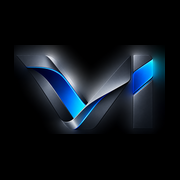
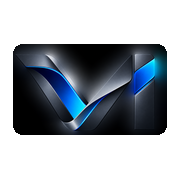
Add files via upload

diff --git a/app.js b/app.js
@@ -469,7 +469,7 @@ async function pdf(ids,o){
   const lg=(max)=>{if(!logo)return null;const h=Math.min(max,max*1.9/logo.r),w=h*logo.r;return{w,h}};
   let cur,y,label='';
   const np=l=>{label=l||label;cur=[`<rect width="210" height="19" fill="${ink}"/><rect y="19" width="210" height="1.6" fill="${acc}"/>`,`<text x="14" y="11.8" font-size="3.3" font-weight="bold" letter-spacing=".6" fill="#fff">${esc(label)}</text>`];
-    const s=lg(9);if(s)cur.push(`<rect x="${196-s.w-4}" y="4.2" width="${s.w+8}" height="${s.h+2}" rx="1.5" fill="#000"/>`,svgImg(logo.u,196-s.w,5.2,s.w,s.h));pages.push(cur);y=32};
+    const s=lg(9);if(s)cur.push(`<rect x="${196-s.w-4}" y="4.2" width="${s.w+8}" height="${s.h+2}" rx="1.5" fill="#fff"/>`,svgImg(logo.u,196-s.w,5.2,s.w,s.h));pages.push(cur);y=32};
   const room=h=>{if(y+h>276)np(label)};
   const para=(t,x,w,fs,fill,bold,lh)=>{for(const l of wrapLines(t,w,fs,bold)){room(lh);cur.push(`<text x="${x}" y="${y}" font-size="${fs}" fill="${fill}"${bold?' font-weight="bold"':''}>${esc(l)}</text>`);y+=lh}};
   const callout=(lab,text,res)=>{const lines=wrapLines(text,160,3.7).slice(0,34),h=11+lines.length*5.3;room(h+4);
@@ -481,7 +481,7 @@ async function pdf(ids,o){
   const cov=[`<rect width="210" height="297" fill="${bg}"/>`];
   if(hero)cov.push(svgClip(hero.u,0,0,210,172,0,'hc'));else cov.push(`<rect width="210" height="172" fill="${acc}" fill-opacity=".3"/><circle cx="170" cy="60" r="70" fill="${acc}" fill-opacity=".25"/><circle cx="40" cy="140" r="50" fill="#fff" fill-opacity=".08"/>`);
   cov.push(`<defs><linearGradient id="hg" x1="0" y1="0" x2="0" y2="1"><stop offset=".4" stop-color="#0e1a20" stop-opacity="0"/><stop offset="1" stop-color="#0e1a20" stop-opacity=".8"/></linearGradient></defs><rect width="210" height="172" fill="url(#hg)"/>`,`<polygon points="0,158 210,134 210,147 0,172" fill="${acc}"/><polygon points="0,172 210,147 210,153 0,178" fill="${acc}" fill-opacity=".4"/>`);
-  const cl=lg(14);if(cl)cov.push(`<rect x="14" y="14" width="${cl.w+10}" height="${cl.h+9}" rx="3" fill="#000"/>`,svgImg(logo.u,19,18.5,cl.w,cl.h));
+  const cl=lg(14);if(cl)cov.push(`<rect x="14" y="14" width="${cl.w+10}" height="${cl.h+9}" rx="3" fill="#fff"/>`,svgImg(logo.u,19,18.5,cl.w,cl.h));
   const t1=wrapLines(`${S.company} application portfolio`,172,13,true);
   cov.push(`<text x="20" y="197" font-size="3.4" font-weight="bold" letter-spacing=".9" fill="${sc}">CUSTOMER PROPOSAL</text>`);
   t1.forEach((t,i)=>cov.push(`<text x="20" y="${209+i*14}" font-size="13" font-weight="bold" fill="${tc}">${esc(t)}</text>`));
@@ -515,7 +515,7 @@ async function pdf(ids,o){
     if(S.secs.includes('Result')&&a.proof)callout('The result',a.proof,true)}
   /* ---- closing page */
   const end=[`<rect width="210" height="297" fill="${ink}"/><polygon points="0,200 210,170 210,182 0,212" fill="${acc}"/><circle cx="175" cy="48" r="60" fill="${acc}" fill-opacity=".12"/>`];
-  const el=lg(16);if(el)end.push(`<rect x="20" y="24" width="${el.w+10}" height="${el.h+10}" rx="3" fill="#000"/>`,svgImg(logo.u,25,29,el.w,el.h));
+  const el=lg(16);if(el)end.push(`<rect x="20" y="24" width="${el.w+10}" height="${el.h+10}" rx="3" fill="#fff"/>`,svgImg(logo.u,25,29,el.w,el.h));
   end.push(`<text x="20" y="120" font-size="14" font-weight="bold" fill="#fff">Let’s talk about</text><text x="20" y="136" font-size="14" font-weight="bold" fill="${acc}">your application.</text>`);
   wrapLines(`Every application above started with a problem like yours. Tell us about your bearings, shafts, loads and conditions and we will recommend the right material and design.`,150,4.2).forEach((t,i)=>end.push(`<text x="20" y="${152+i*6}" font-size="4.2" fill="#fff" fill-opacity=".85">${esc(t)}</text>`));
   end.push(`<text x="20" y="236" font-size="6" font-weight="bold" fill="#fff">${esc(S.company)}</text>`);if(S.footer)wrapLines(S.footer,170,3.8).slice(0,3).forEach((t,i)=>end.push(`<text x="20" y="${244+i*5.4}" font-size="3.8" fill="#fff" fill-opacity=".8">${esc(t)}</text>`));

diff --git a/index.html b/index.html
@@ -3,11 +3,11 @@
 <head>
 <meta charset="utf-8">
 <meta name="viewport" content="width=device-width,initial-scale=1,viewport-fit=cover">
-<meta name="theme-color" content="#000000">
+<meta name="theme-color" content="#ffffff">
 <meta name="mobile-web-app-capable" content="yes">
 <meta name="apple-mobile-web-app-capable" content="yes">
 <meta name="apple-mobile-web-app-title" content="Vesco Intelligence">
-<meta name="apple-mobile-web-app-status-bar-style" content="black">
+<meta name="apple-mobile-web-app-status-bar-style" content="default">
 <link rel="manifest" href="manifest.json">
 <link rel="apple-touch-icon" href="apple-touch-icon.png">
 <link rel="icon" type="image/png" sizes="32x32" href="favicon-32.png">
@@ -22,7 +22,7 @@
 <link rel="stylesheet" href="style.css">
 <script src="config.js" defer></script>
 <script type="module" src="app.js"></script>
-<style>#spl{position:fixed;inset:0;z-index:99999;display:flex;flex-direction:column;align-items:center;justify-content:center;gap:26px;background:#000;transition:opacity .45s}#spl.off{opacity:0;pointer-events:none}#spl img{width:min(72vw,340px);height:auto;animation:splp 1.8s ease-in-out infinite}#spl i{width:120px;height:3px;border-radius:2px;background:rgba(30,120,230,.25);overflow:hidden;position:relative}#spl i:after{content:"";position:absolute;inset:0;width:40%;background:#1e78e6;animation:spls 1.2s ease-in-out infinite}@keyframes splp{50%{transform:scale(1.04)}}@keyframes spls{0%{transform:translateX(-100%)}100%{transform:translateX(250%)}}@media(prefers-reduced-motion:reduce){#spl img,#spl i:after{animation:none}}</style>
+<style>#spl{position:fixed;inset:0;z-index:99999;display:flex;flex-direction:column;align-items:center;justify-content:center;gap:26px;background:#fff;transition:opacity .45s}#spl.off{opacity:0;pointer-events:none}#spl img{width:min(72vw,340px);height:auto;animation:splp 1.8s ease-in-out infinite}#spl i{width:120px;height:3px;border-radius:2px;background:rgba(30,120,230,.15);overflow:hidden;position:relative}#spl i:after{content:"";position:absolute;inset:0;width:40%;background:#1e78e6;animation:spls 1.2s ease-in-out infinite}@keyframes splp{50%{transform:scale(1.04)}}@keyframes spls{0%{transform:translateX(-100%)}100%{transform:translateX(250%)}}@media(prefers-reduced-motion:reduce){#spl img,#spl i:after{animation:none}}</style>
 </head>
 <body>
 <div id="spl" aria-hidden="true"><img src="logo-full.png" alt=""><i></i></div>

diff --git a/style.css b/style.css
@@ -50,7 +50,7 @@ fieldset{border:1px solid var(--line);border-radius:12px;margin:0 0 18px;padding
 @media(prefers-reduced-motion:no-preference){.btn,.row{transition:border-color .15s,background .15s}}
 @media(max-width:420px){.g2{grid-template-columns:1fr}}
 body.bare .tabs{display:none}body.bare main{padding-bottom:40px}.tabs [hidden],#ad[hidden]{display:none}
-.brand img{height:36px;width:auto;flex:none;display:block;border-radius:8px;background:#000}.brand span{overflow:hidden;text-overflow:ellipsis}
+.brand img{height:36px;width:auto;flex:none;display:block;border-radius:8px}.brand span{overflow:hidden;text-overflow:ellipsis}
 .hb{display:flex;gap:8px}#ad{height:40px;padding:0 13px;border:1px solid var(--line);border-radius:9px;background:var(--card);color:var(--ink);font:600 14px var(--f2)}
 details.card summary{list-style:none;cursor:pointer}details.card summary::-webkit-details-marker{display:none}details.card form{margin-top:14px}
 #qc{display:inline-block;background:#fff;padding:12px;border-radius:10px;margin-bottom:10px}
